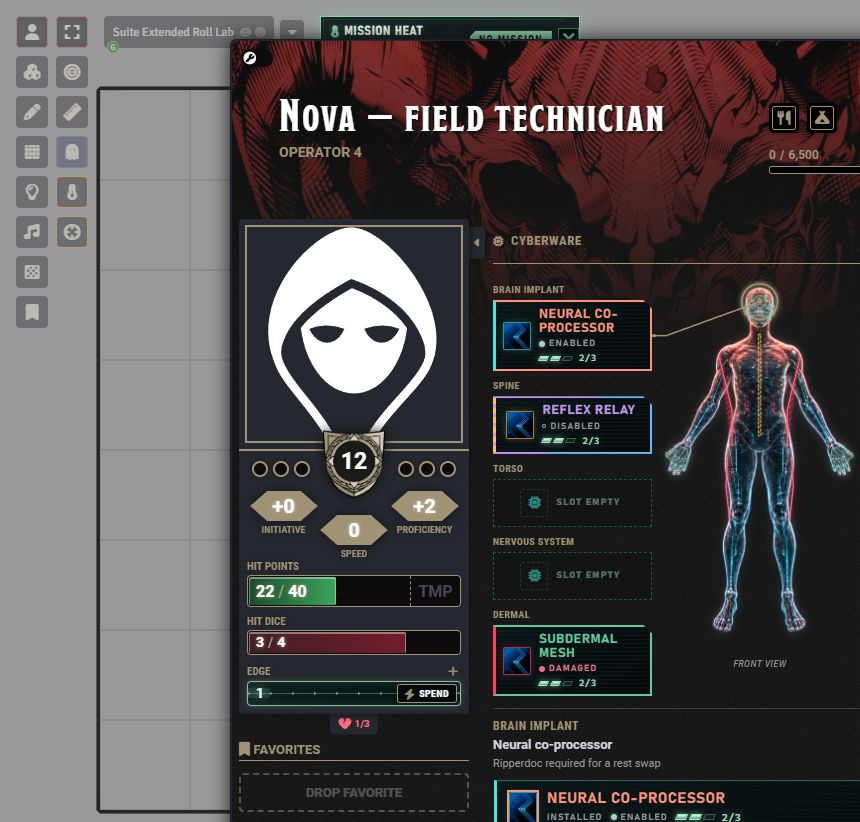
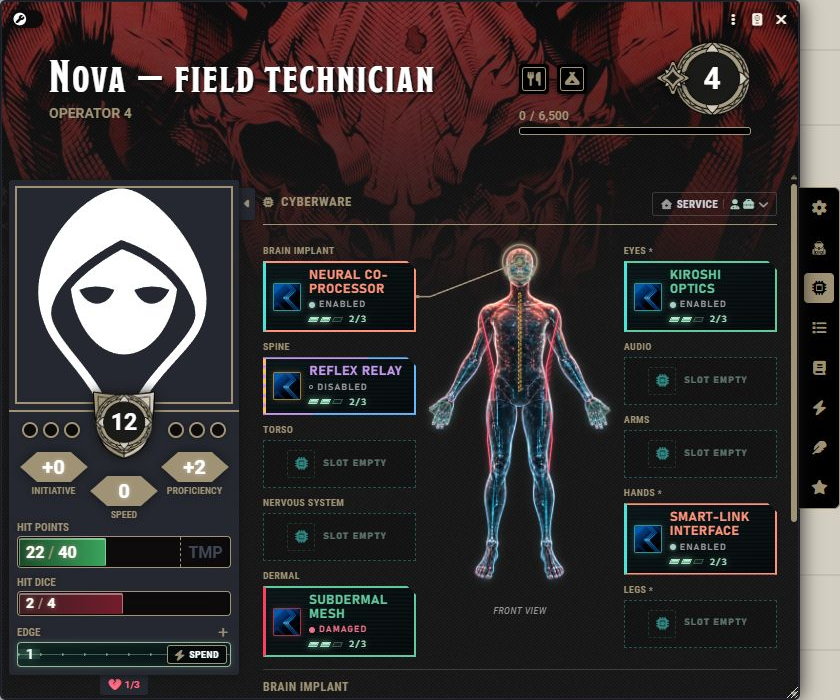
docs: correct native screenshot crops and rest recording

diff --git a/docs/Media.md b/docs/Media.md
@@ -59,9 +59,9 @@ These native captures were prepared on **2026-10-09** in the local **0.7.41 audi
 | [resources-shield-current.png](media/resources-shield-current.png) | Expanded Strikes, Edge, shield durability, and disabled/damaged inventory actions. |
 | [cyberware-service-current.png](media/cyberware-service-current.png) | Expanded implant service controls. |
 | [cyberware-queue-current.png](media/cyberware-queue-current.png) | Queued implant removal, its current enabled state, and the Cancel control. |
-| [rest-medscan-live.gif](media/rest-medscan-live.gif) | Live short-rest monitor recording: 30 sequential native captures over 8.32 seconds; one actual Hit Die changes HP from 22 to 26. |
+| [rest-medscan-live.gif](media/rest-medscan-live.gif) | Live short-rest monitor recording: 30 sequential native captures; one actual Hit Die changes HP from 22 to 24. |
 
-The **rest recording** contains genuine native motion and one real Hit Die expenditure. It was assembled from 30 sequential captures over 8.32 seconds at 420 × 260 pixels. GIF encoding coalesces repeated frames into 18 stored frames while retaining the full duration; the motion was not fabricated between still states.
+The **rest recording** contains genuine native motion and one real Hit Die expenditure. It was assembled from 30 sequential full-viewport captures over 2.79 seconds, cropped afterward to the monitor at 420 × 260 pixels. The GIF keeps all 30 frames and plays for 3.09 seconds, including a final 300 ms hold. The motion was not fabricated between still states. Fresh screenshots were likewise cropped from full captures after verifying the window coordinates.
 
 The **wall glimpse** is a prepared damaged-stage example at 10/40 wall HP using the native appearance helpers. The screenshot shows the GM canvas view of that prepared state; it is not a player-login test or a recording of an attack being applied.
 

diff --git a/docs/Cards.md b/docs/Cards.md
@@ -136,9 +136,9 @@ These four captures show the dialog rather than separate chat posts. Roll one Hi
 <details>
 <summary>Watch the native short-rest monitor in motion · audited preview</summary>
 
-<a href="media/rest-medscan-live.gif"><img src="media/rest-medscan-live.gif" alt="Recorded native short-rest ECG and HP display; one real Hit Die raises HP from 22 to 26" width="420"></a>
+<a href="media/rest-medscan-live.gif"><img src="media/rest-medscan-live.gif" alt="Recorded native short-rest ECG and HP display; one real Hit Die raises HP from 22 to 24" width="420"></a>
 
-Thirty sequential native captures over 8.32 seconds show the running trace and one actual Hit Die expenditure. [Recording provenance](Media.md#fresh-guide-screenshots-and-recording).
+Thirty sequential native captures show the running trace and one actual Hit Die expenditure. [Recording provenance](Media.md#fresh-guide-screenshots-and-recording).
 
 </details>
 

diff --git a/docs/Rests.md b/docs/Rests.md
@@ -23,7 +23,7 @@ Individual dice do not post separate chat cards. Completing the rest sends one c
 
 The health color changes from red below one third of maximum HP, to blue below two thirds, then green. The HP bar distinguishes starting HP from each die's healing and previews the next die's possible range. The trace animates like a medical monitor and stops under reduced motion.
 
-<img src="media/rest-medscan-live.gif" alt="Eight-second native recording of the med-scan and one actual Hit Die raising HP from 22 to 26" width="420">
+<img src="media/rest-medscan-live.gif" alt="Native recording of the med-scan and one actual Hit Die raising HP from 22 to 24" width="420">
 
 This live recording shows the monitor's motion and one real Hit Die recovery. [Static alternative](media/rest-current.png).
 

diff --git a/README.md b/README.md
@@ -18,7 +18,7 @@ Ten body regions, real inventory items, visible charges, and clear implant state
 
 ## Rest at the safehouse
 
-<img src="docs/media/rest-medscan-live.gif" alt="Live Foundry recording: the med-scan animates and one Hit Die raises HP from 22 to 26" width="420">
+<img src="docs/media/rest-medscan-live.gif" alt="Live Foundry recording: the med-scan animates and one Hit Die raises HP from 22 to 24" width="420">
 
 Roll **one Hit Die at a time** inside the rest dialog. Watch HP recover, inspect each result, use eligible rest abilities, then send one combined receipt to chat. Queued implant swaps complete when the rest and service requirements are met.
 
